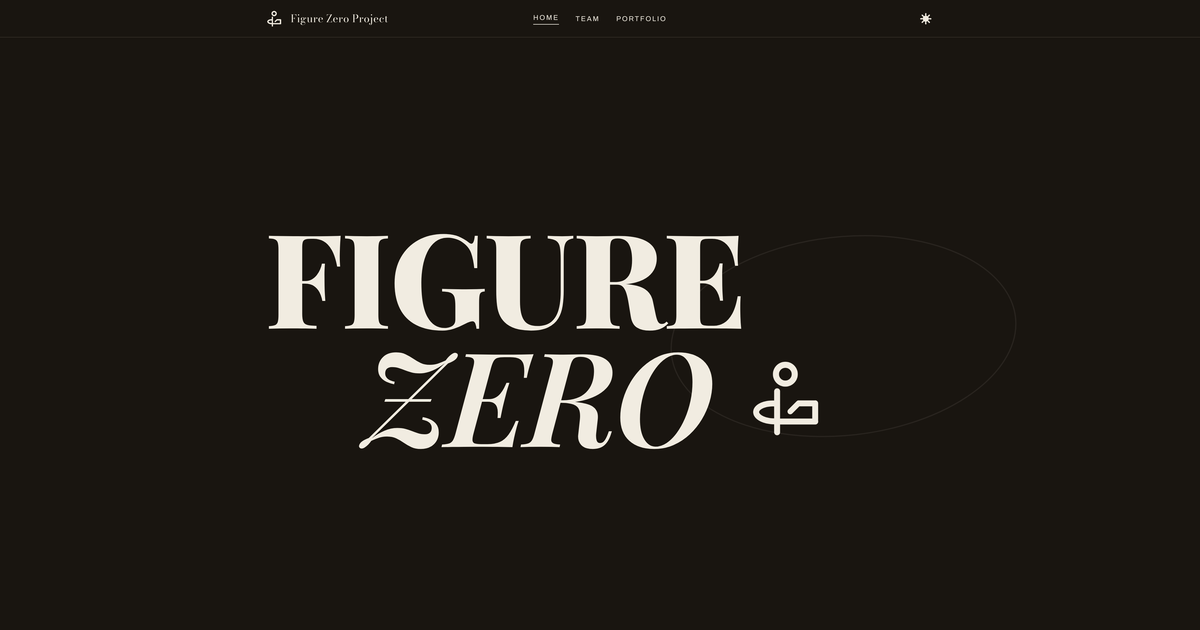
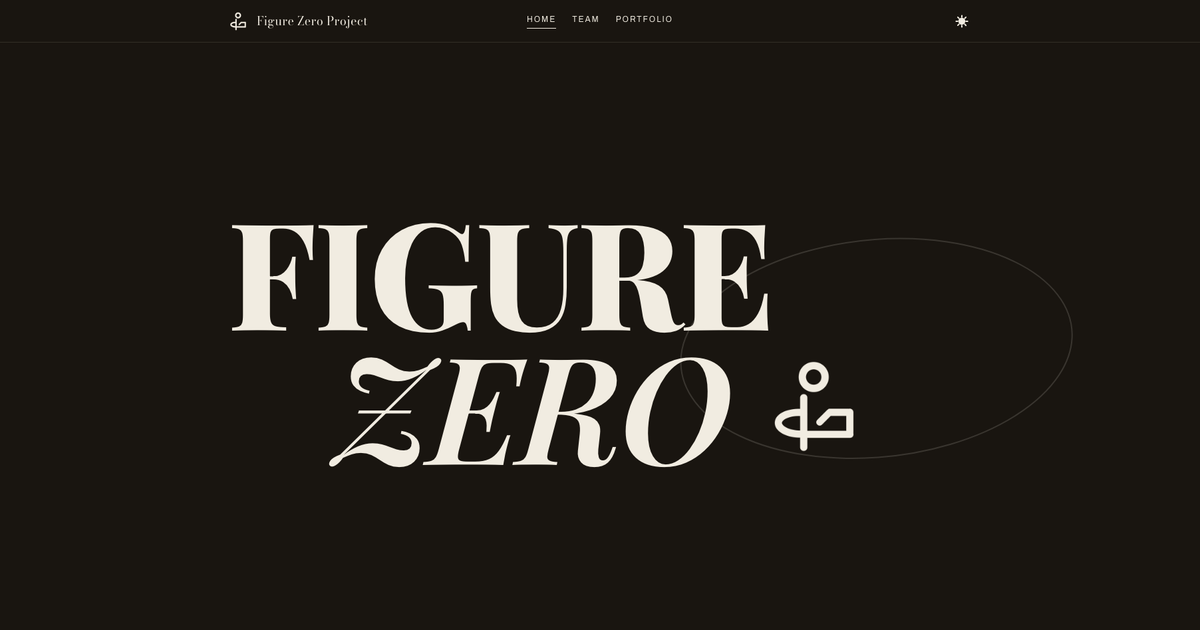
refactor: systematize sizing and refine layout throughout

diff --git a/src/global.css b/src/global.css
@@ -3,8 +3,6 @@
 @theme {
     --color-bone: light-dark(#faf8f3, #f4f0e5);
     --color-charcoal: light-dark(#1a1713, #f1ece1);
-    --color-charcoal-10: light-dark(#1a17131a, #0000001a);
-    --color-charcoal-15: light-dark(#1a171326, #00000026);
     --color-charcoal-35: light-dark(#1a171359, #00000059);
     --color-cream: light-dark(#faf8f3, #191510);
     --color-cream-90: light-dark(#faf8f3e6, #191510e6);
@@ -27,29 +25,28 @@
         'Source Serif 4 Variable',
         Georgia,
         serif;
-    --shadow-cover:
-        0 2px 2px var(--color-charcoal-10),
-        0 12px 40px var(--color-charcoal-10);
-    --shadow-cover-hover:
-        0 2px 4px var(--color-charcoal-10),
-        0 24px 60px var(--color-charcoal-15);
     --spacing: 4px;
-    --text-heading: clamp(34px, calc(25.33px + 2.71vw), 60px);
-    --text-lead: clamp(20px, calc(17.33px + 0.8333vw), 28px);
-    --text-title: clamp(58px, calc(17.33px + 12.71vw), 180px);
+    --text-body: 18px;
+    --text-heading: clamp(32px, calc(22.6667px + 2.9167vw), 60px);
+    --text-label: 12px;
+    --text-lead: clamp(20px, calc(17.3333px + 0.8333vw), 28px);
+    --text-meta: 14px;
+    --text-title: clamp(56px, calc(14.6667px + 12.9167vw), 180px);
+    --text-ui: 16px;
 }
 
 :root {
     --doodle-width: clamp(180px, calc(140px + 12.5vw), 300px);
     --duration-fast: 0.15s;
     --duration-slow: 0.6s;
-    --gap-block: clamp(56px, calc(45.33px + 3.33vw), 88px);
-    --gap-grid: clamp(24px, calc(18.67px + 1.67vw), 40px);
     --header-height: 64px;
     --measure-prose: 520px;
-    --pad-block: clamp(48px, calc(40px + 2.5vw), 72px);
-    --section-pad: clamp(72px, calc(45.33px + 8.33vw), 152px);
-    --shell-pad: clamp(24px, calc(9.33px + 4.58vw), 68px);
+    --opacity-doodle: 0.15;
+    --shell-margin: max(0px, (100vw - 1280px) / 2);
+    --shell-pad: clamp(24px, calc(5.3333px + 5.8333vw), 80px);
+    --space-md: clamp(80px, calc(53.3333px + 8.3333vw), 160px);
+    --space-sm: clamp(40px, calc(26.6667px + 4.1667vw), 80px);
+    --space-xs: clamp(20px, calc(13.3333px + 2.0833vw), 40px);
 }
 
 a,
@@ -99,7 +96,7 @@ main {
 }
 
 :focus-visible:not(input, select, textarea) {
-    border-radius: 2px;
+    border-radius: 4px;
     outline: 2px solid var(--color-charcoal);
     outline-offset: 4px;
 }

diff --git a/src/styles.css b/src/styles.css
@@ -2,9 +2,9 @@
     border-bottom: 1px solid var(--color-charcoal);
     display: inline-block;
     font-family: var(--font-sans);
-    font-size: 12px;
+    font-size: var(--text-label);
     letter-spacing: 0.16em;
-    padding-bottom: 2px;
+    padding-bottom: 4px;
     position: relative;
     text-transform: uppercase;
     transition:
@@ -24,19 +24,20 @@
 
 .error__link::after {
     content: '';
-    inset: -14px;
+    inset: -16px;
     position: absolute;
 }
 
 .error__text {
     color: var(--color-umber);
-    font-size: 18px;
-    margin-bottom: 40px;
+    font-size: var(--text-body);
+    margin-bottom: 48px;
 }
 
 .error__title {
-    font-size: clamp(96px, calc(53.33px + 13.33vw), 224px);
-    font-weight: 480;
+    font-family: var(--font-poster);
+    font-size: clamp(96px, calc(53.3333px + 13.3333vw), 224px);
+    font-weight: 500;
     line-height: 0.9;
     margin-bottom: 24px;
 }
@@ -44,20 +45,20 @@
 .eyebrow {
     color: var(--color-taupe);
     font-family: var(--font-sans);
-    font-size: 12px;
-    letter-spacing: 0.18em;
+    font-size: var(--text-label);
+    letter-spacing: 0.16em;
     text-transform: uppercase;
 }
 
 .eyebrow--kicker {
     border-top: 1px solid var(--color-charcoal);
     letter-spacing: 0.2em;
-    margin-bottom: var(--pad-block);
+    margin-bottom: var(--space-sm);
     padding-top: 12px;
 }
 
 .section {
-    padding-block: var(--section-pad);
+    padding-block: var(--space-md);
 }
 
 .shell {

diff --git a/src/lib/motion.ts b/src/lib/motion.ts
@@ -3,18 +3,18 @@ import { ScrollTrigger } from 'gsap/ScrollTrigger';
 
 type ScrollVariant = 'fade' | 'left' | 'right' | 'up' | 'zoom';
 
-const DOODLE_OPACITY = 0.14;
+const DOODLE_OPACITY = 0.15;
 const ENTRANCE_EASE = 'power3.out';
 const LETTER_DURATION = 0.8;
 const LETTER_OFFSET_PERCENT = 60;
-const LETTER_STAGGER = 0.045;
+const LETTER_STAGGER = 0.05;
 const POP_DELAY = 0.1;
 const POP_DURATION = 0.7;
 const POP_EASE = 'back.out(1.7)';
 const POP_SCALE = 0.6;
 const RISE_DURATION = 0.8;
 const RISE_OFFSET = 40;
-const RISE_STAGGER = 0.12;
+const RISE_STAGGER = 0.1;
 const SCROLL_DURATION = 0.9;
 const SCROLL_EASE = 'power2.out';
 
@@ -26,9 +26,9 @@ const SCROLL_EASES = {
     zoom: 'back.out(1.4)',
 } as const satisfies Record<ScrollVariant, string>;
 
-const SCROLL_OFFSET = 26;
+const SCROLL_OFFSET = 24;
 const SCROLL_START = 'top 85%';
-const ZOOM_SCALE = 0.92;
+const ZOOM_SCALE = 0.9;
 
 const SCROLL_VARIANTS = {
     fade: {},
